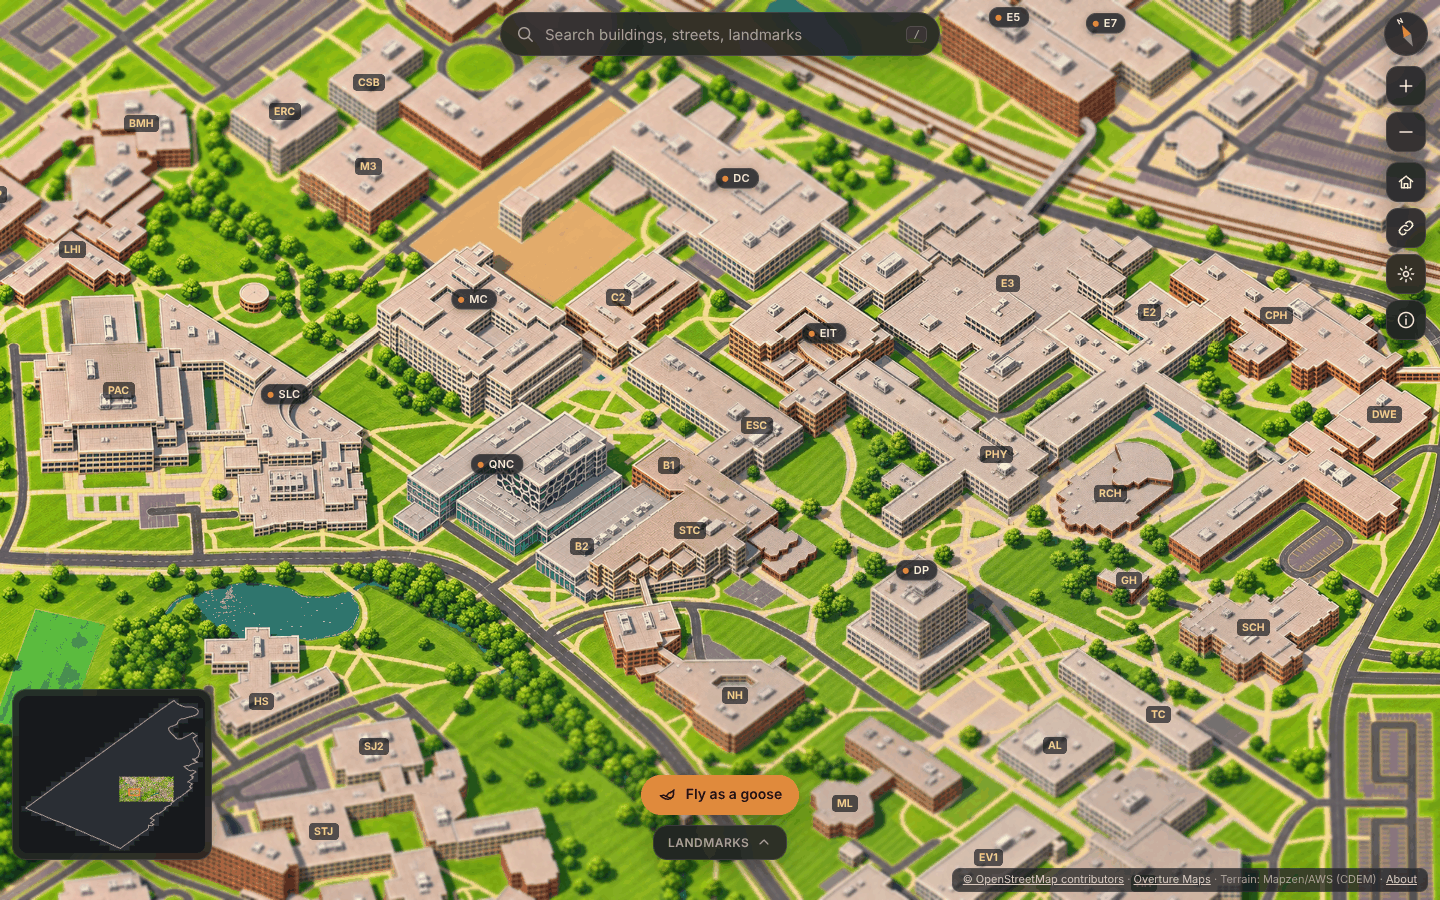
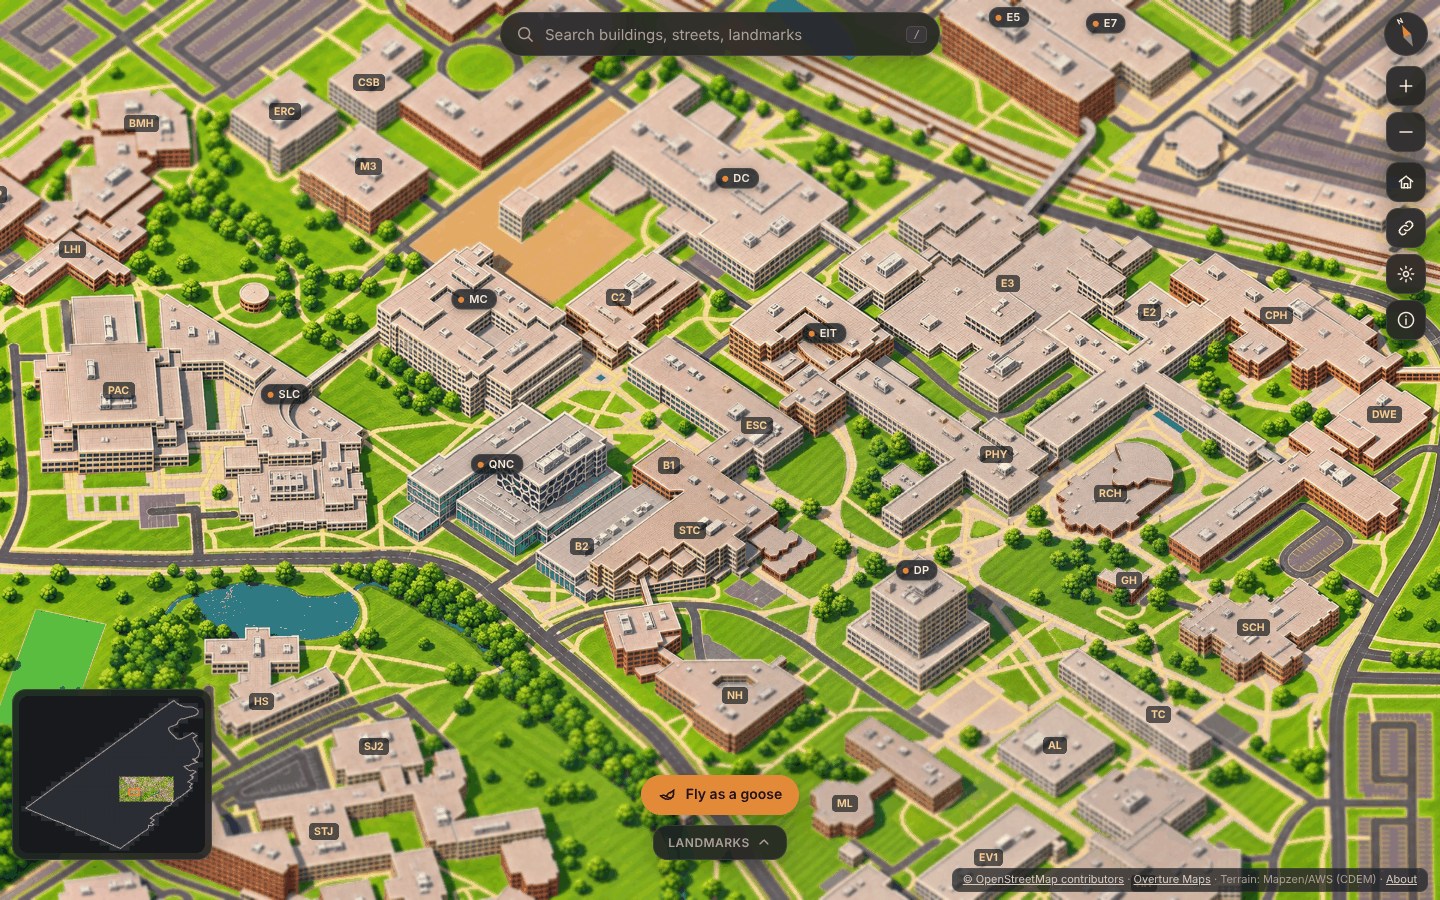
Overlays ov01-ov04 accepted (campus seams, parking); inputs for four more border windows
Claude-Session: https://claude.ai/code/session_01VqAdQDSSPKBnYjiqgKN3n5

diff --git a/pipeline/art_overlay.py b/pipeline/art_overlay.py
@@ -81,7 +81,11 @@ def seam_mask(w, h, axis, core, band):
 
 def make(a):
     box = [int(v) for v in a.box.split(',')]; x0, y0, w, h = box
-    win = mosaic(box, harmonised)
+    # cut from what is published now: the harmonised art plus every overlay accepted so far
+    base = {f'{i}_{j}': harmonised(f'{i}_{j}') for i, j in _tiles(box)}
+    if any(v is None for v in base.values()): raise SystemExit('run pipeline/publish_tiles.py first (no harmonised tiles cached)')
+    base, _ = apply({k: Image.fromarray(v) for k, v in base.items()}, verbose=False)
+    win = mosaic(box, lambda t: np.asarray(base[t].convert('RGB')))
     if a.seam:
         mask = seam_mask(w, h, a.seam, a.core, a.band); kind = 'seam'
     else:
